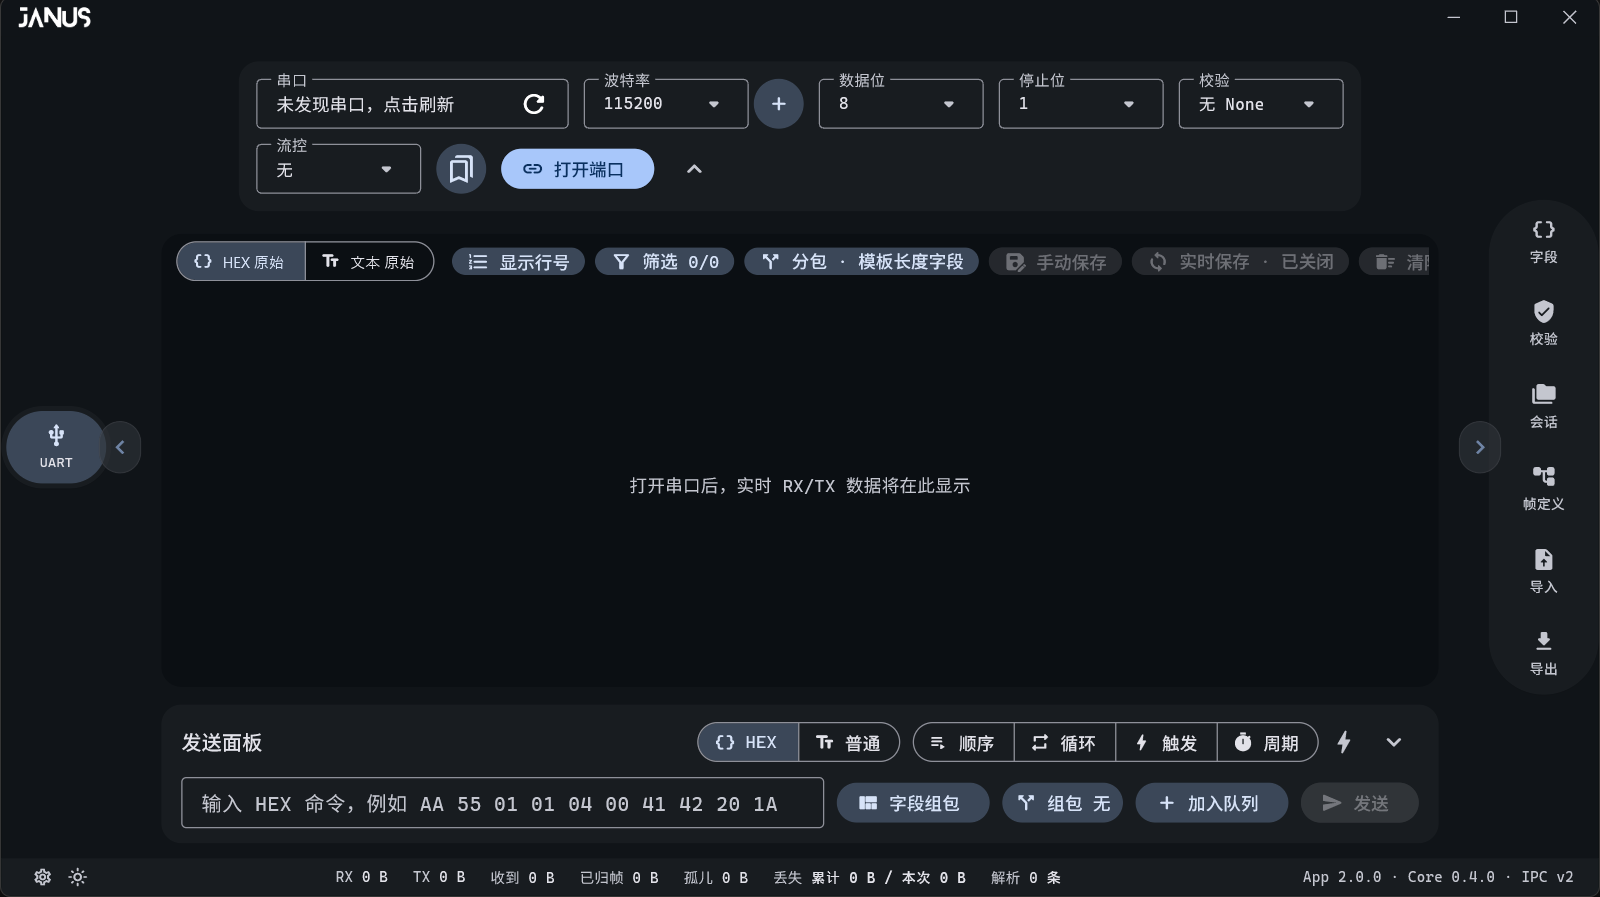
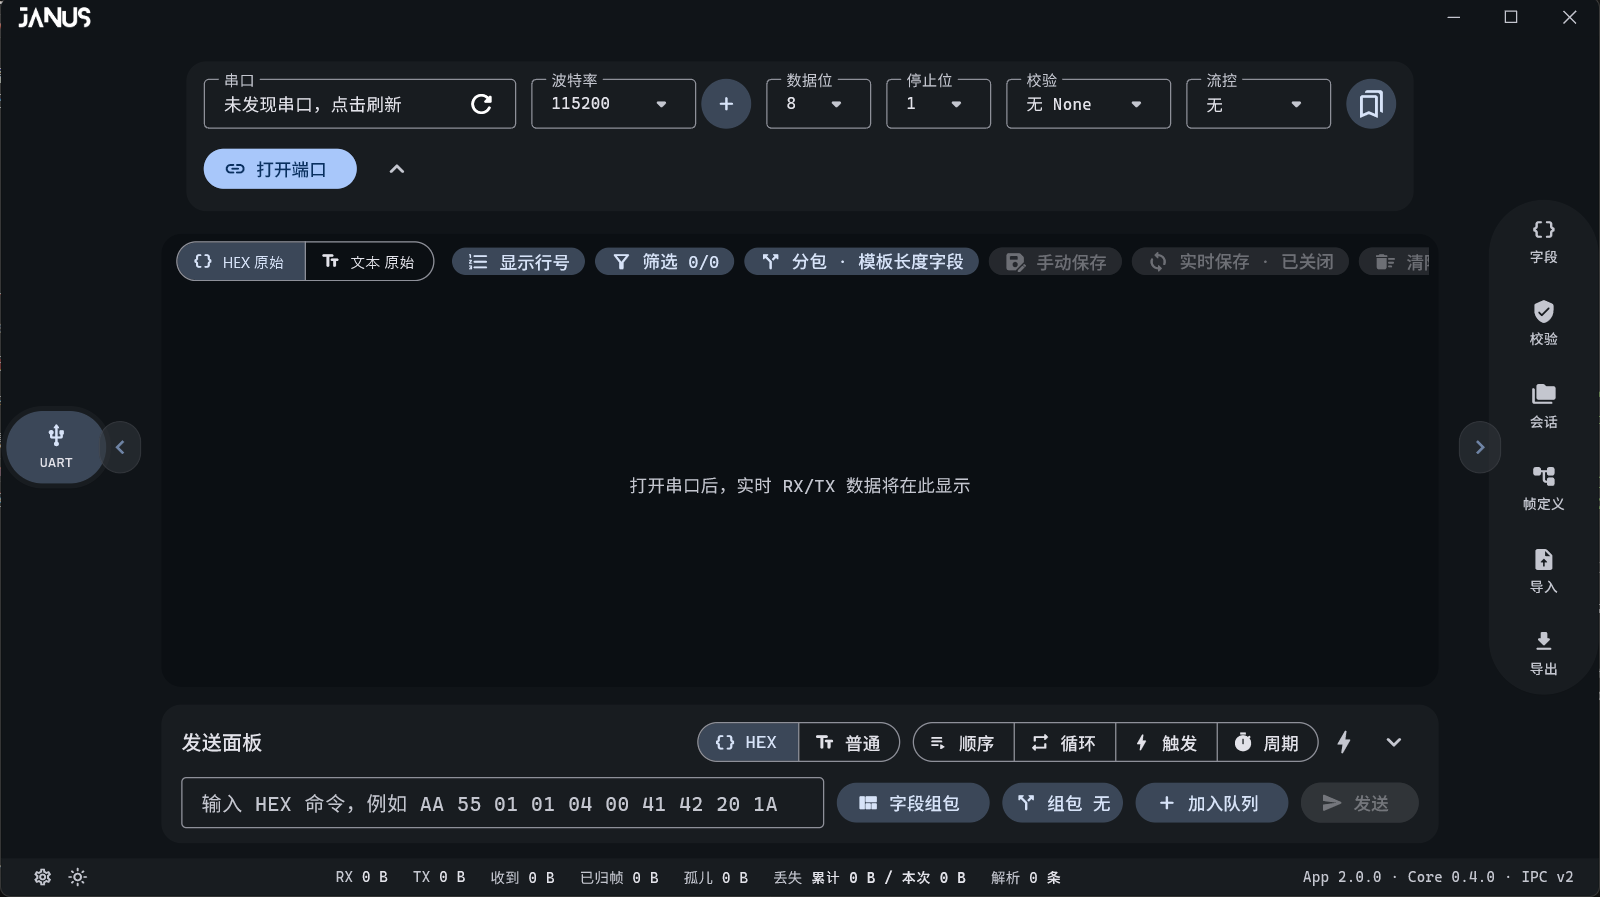
fix(ui): size serial parameter dropdowns to their content
- Add a width override to the reusable select field and use compact widths for data bits, stop bits, and flow control.

- Refresh README screenshots to match the tighter connection panel.

diff --git a/lib/screens/workbench_screen.dart b/lib/screens/workbench_screen.dart
@@ -3018,9 +3018,11 @@ class _WorkbenchScreenState extends State<WorkbenchScreen>
                                 '数据位',
                                 _dataBits,
                                 const ['5', '6', '7', '8'],
-                                (value) => setState(() => _dataBits = value)),
+                                (value) => setState(() => _dataBits = value),
+                                width: 84),
                             _selectField('停止位', _stopBits, const ['1', '2'],
-                                (value) => setState(() => _stopBits = value)),
+                                (value) => setState(() => _stopBits = value),
+                                width: 84),
                             _selectField(
                                 '校验',
                                 _parity,
@@ -3030,8 +3032,8 @@ class _WorkbenchScreenState extends State<WorkbenchScreen>
                                 '流控',
                                 _flowControl,
                                 const ['无', 'RTS/CTS', 'XON/XOFF'],
-                                (value) =>
-                                    setState(() => _flowControl = value)),
+                                (value) => setState(() => _flowControl = value),
+                                width: 116),
                             if (!_connected)
                               Tooltip(
                                 message: '保存或加载串口参数预设',
@@ -3179,11 +3181,12 @@ class _WorkbenchScreenState extends State<WorkbenchScreen>
       };
 
   Widget _selectField(String label, String selected, List<String> options,
-          ValueChanged<String> onChanged) =>
+          ValueChanged<String> onChanged,
+          {double width = 132}) =>
       SizedBox(
-        width: 132,
+        width: width,
         child: _JanusPopupField<String>(
-          width: 132,
+          width: width,
           label: label,
           value: selected,
           options: options,
